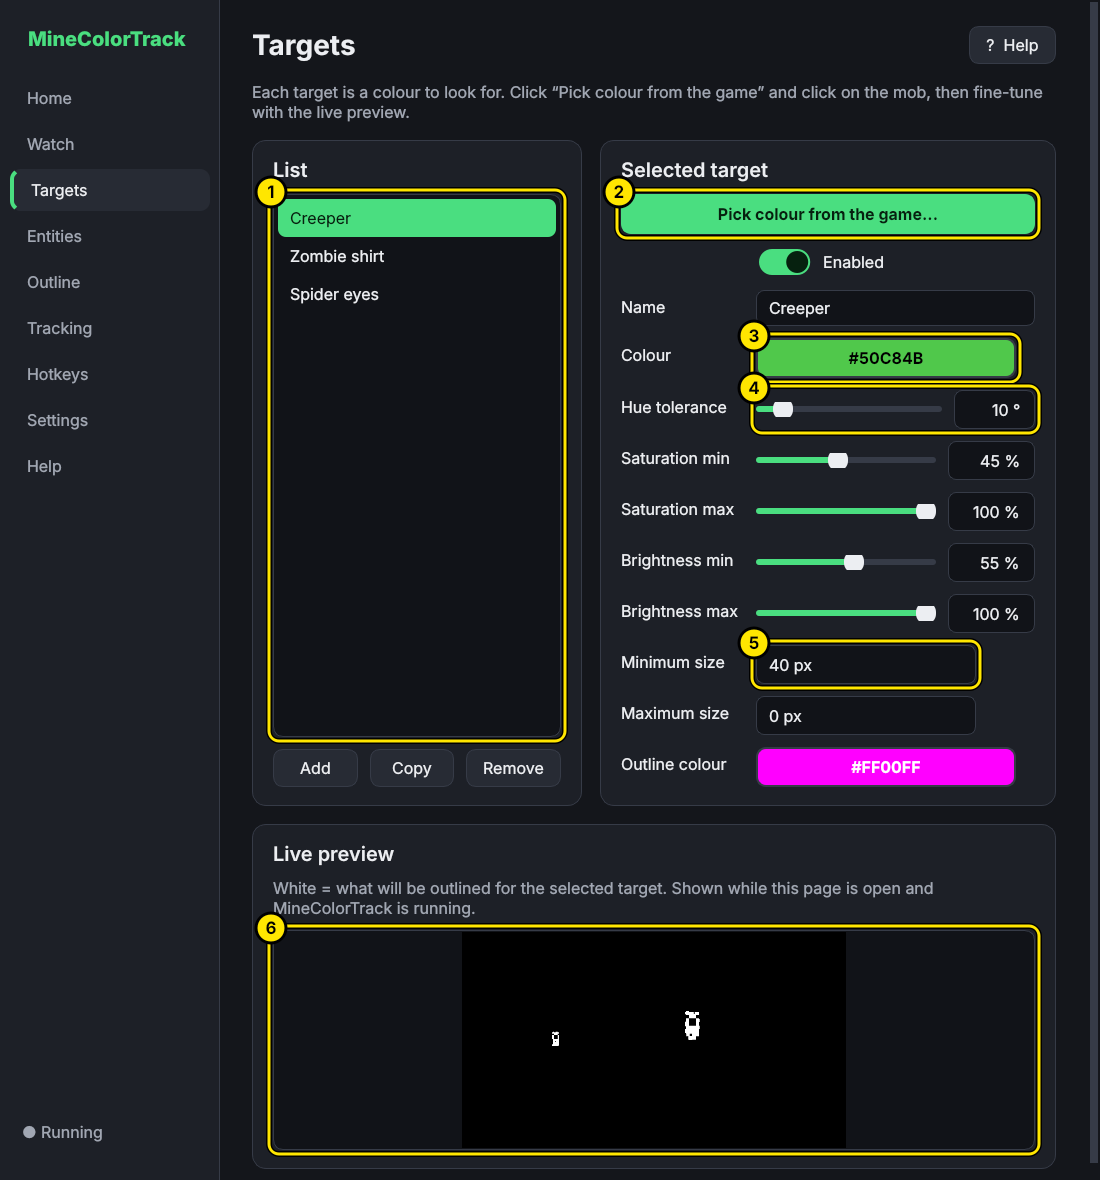
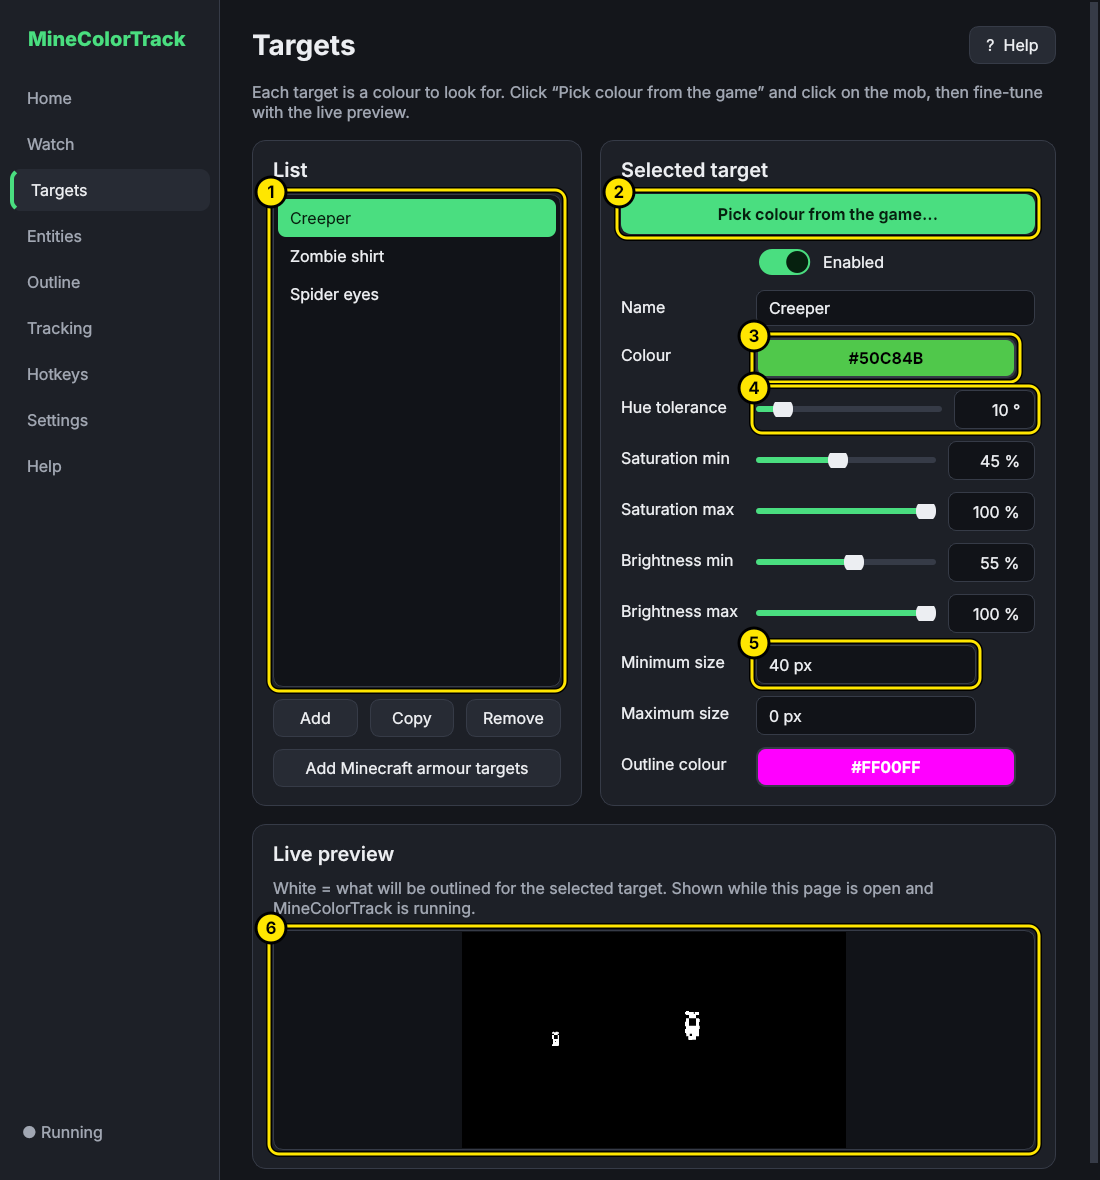
1.6.1: optional Minecraft armour targets
- Targets page button "Add Minecraft armour targets" and
  `mct target add-armour`: adds leather, chainmail, iron, gold, diamond
  and netherite armour, plain and enchanted (12 targets), to the current
  profile on request only; existing names are skipped. Approximate texture
  colours; enchanted ones get a wider range for the moving glint. Plain
  grey materials start switched off because they also match stone.
- New profiles still start empty. Help text, tooltip and tests updated.

Claude-Session: https://claude.ai/code/session_01PX75SyW8m8QKGi5PrGYV6t

Changed region(s): [[0.2164, 0.5797, 0.5255, 0.6712]]

diff --git a/colorassist/config.py b/colorassist/config.py
@@ -155,6 +155,41 @@ def default_profiles():
     return {STARTER_PROFILE: Profile()}
 
 
+def minecraft_armour_targets():
+    """Optional Minecraft armour colours (added only when asked: Targets > Add Minecraft armour targets).
+
+    Approximate colours of the default textures; lighting, texture packs and the stream change them, so re-pick
+    them in your own game when they miss. Enchanted armour has a moving purple shimmer on top, so its range is
+    wider. Plain chainmail, iron and netherite are grey and also match stone, gravel and similar blocks, so they
+    start switched off.
+    """
+    def t(name, color, outline, hue_tol, sat_min, val_min, enabled=True, min_area=30):
+        return Target(name=name, enabled=enabled, color=color, hue_tol=hue_tol, sat_min=sat_min, val_min=val_min,
+                      min_area=min_area, outline_color=outline)
+    return [
+        t("Leather armour", "#A06540", "#FF8A00", 12, 40, 35),
+        t("Leather armour (enchanted)", "#935678", "#FF8A00", 24, 25, 30),
+        t("Chainmail armour", "#A3A3A3", "#FFFFFF", 90, 0, 55, enabled=False),
+        t("Chainmail armour (enchanted)", "#957BB3", "#FFFFFF", 24, 20, 45),
+        t("Iron armour", "#D8D8D8", "#E0E0E0", 90, 0, 75, enabled=False),
+        t("Iron armour (enchanted)", "#B59BD4", "#E0E0E0", 24, 18, 60),
+        t("Gold armour", "#FCDB4A", "#FFE600", 14, 50, 60),
+        t("Gold armour (enchanted)", "#CB9D7E", "#FFE600", 24, 25, 50),
+        t("Diamond armour", "#33EBCB", "#00E5FF", 12, 45, 55),
+        t("Diamond armour (enchanted)", "#52A7CB", "#00E5FF", 24, 30, 45),
+        t("Netherite armour", "#4D494D", "#FF3DFF", 90, 0, 15, enabled=False),
+        t("Netherite armour (enchanted)", "#614580", "#FF3DFF", 24, 25, 25),
+    ]
+
+
+def add_armour_targets(profile):
+    """Add the armour targets that the profile does not have yet (matched by name). Returns the added ones."""
+    have = {x.name.lower() for x in profile.targets}
+    added = [x for x in minecraft_armour_targets() if x.name.lower() not in have]
+    profile.targets.extend(added)
+    return added
+
+
 def default_config():
     cfg = AppConfig(profiles=default_profiles())
     cfg.active_profile = STARTER_PROFILE

diff --git a/colorassist/cli.py b/colorassist/cli.py
@@ -39,6 +39,7 @@ Colour targets (in the active profile, or --profile NAME)
   mct target set NAME KEY VALUE      KEY: enabled color hue_tol sat_min sat_max val_min val_max min_area
                                      max_area outline_color name
   mct target remove NAME
+  mct target add-armour              add Minecraft armour colours (plain and enchanted) to the profile
 AI model and entities
   mct model load FILE.onnx | mct model clear | mct model info
   mct entity list | mct entity set NAME enabled|outline_color VALUE
@@ -276,6 +277,12 @@ def cmd_target(b, a):
     act = a.action
     if act == "list":
         return {"profile": a.profile or cfg.active_profile, "targets": [asdict(t) for t in prof.targets]}
+    if act == "add-armour":
+        added = config.add_armour_targets(prof)
+        b.save(cfg)
+        return {"added": [t.name for t in added], "switched_off": [t.name for t in added if not t.enabled],
+                "note": "Approximate colours; re-pick with `mct target pick` if armour is missed.",
+                "applied_live": b.live}
     if act == "add":
         if any(t.name.lower() == a.name.lower() for t in prof.targets):
             raise CliError("Target %r already exists; use `mct target set`." % a.name)
@@ -566,7 +573,7 @@ def build_parser():
     p.add_argument("new", nargs="?")
 
     p = sub.add_parser("target", help="colour targets")
-    p.add_argument("action", choices=["list", "add", "set", "remove", "pick"])
+    p.add_argument("action", choices=["list", "add", "set", "remove", "pick", "add-armour"])
     p.add_argument("name", nargs="?")
     p.add_argument("rest", nargs="*", help="set: KEY VALUE   pick: IMAGE X Y")
     p.add_argument("--profile")
@@ -632,7 +639,7 @@ def main(argv=None):
                 a.image, a.x, a.y = rest[0], int(rest[1]), int(rest[2])
             except ValueError:
                 pass
-        if a.action != "list" and not a.name:
+        if a.action not in ("list", "add-armour") and not a.name:
             ap.error("target %s needs a NAME" % a.action)
     try:
         b = Backend(a.config, offline=a.offline)

diff --git a/colorassist/help_text.py b/colorassist/help_text.py
@@ -55,6 +55,10 @@ TIPS = {
     "target_list": ("", "Targets in this profile. Select one to edit it."),
     "target_add": ("", "Add a new target to this profile and pick its colour from the game straight away.\n"
                      "It switches on once its colour is picked."),
+    "target_add_armour": ("", "Adds Minecraft armour colours to this profile: leather, chainmail, iron, gold, "
+                              "diamond and netherite,\neach plain and enchanted. Approximate colours; re-pick them "
+                              "in your game if they miss.\nGrey ones (plain chainmail, iron, netherite) start switched "
+                              "off because they also match stone."),
     "target_copy": ("", "Make a copy of the selected target, for example to track the same mob at night."),
     "target_remove": ("", "Delete the selected target from this profile."),
     "pick": ("", "Freezes the current picture. Click on the thing you want outlined:\n"
@@ -242,6 +246,9 @@ are filled in.</li>
 <li><b>Colour</b>: the colour searched for. Click it to choose by hand.</li>
 <li><b>Ranges</b>: how close a pixel must be to that colour. See “Tuning a colour” below.</li>
 <li><b>Size limits</b>: ignore matches that are too small (specks) or too big (a whole field).</li>
+<li><b>Add Minecraft armour targets</b> (under the list) adds leather, chainmail, iron, gold, diamond and netherite
+armour, each plain and enchanted, with approximate colours. Grey armour starts switched off because it also
+matches stone; enchanted armour has a wider range because of its moving purple shimmer.</li>
 <li><b>Live preview</b>: white shows what will be outlined. It works while assist is running.</li>
 </ol>
 """),

diff --git a/colorassist/panel.py b/colorassist/panel.py
@@ -509,6 +509,7 @@ class Panel(QMainWindow):
                               ("Remove", "target_remove", self._remove_target)):
             bl.addWidget(self._button(text, key, fn))
         cl.addLayout(bl)
+        cl.addWidget(self._button("Add Minecraft armour targets", "target_add_armour", self._add_armour))
         c.setMinimumWidth(330)
         row.addWidget(c, 1)
 
@@ -1085,6 +1086,24 @@ class Panel(QMainWindow):
             self.status.setText("New target added. Click on the thing to outline; it switches on once its "
                                 "colour is picked.")
             self.pickColourRequested.emit()
+
+    def _add_armour(self):
+        from .config import add_armour_targets
+        added = add_armour_targets(self.cfg.profile)
+        self._reload_targets(select=len(self.cfg.profile.targets) - 1)
+        self.settingsChanged.emit()
+        if not added:
+            QMessageBox.information(self, APP_NAME, "This profile already has all the armour targets.")
+            return
+        off = [x.name for x in added if not x.enabled]
+        QMessageBox.information(
+            self, APP_NAME,
+            "Added %d armour targets to \u201c%s\u201d.\n\n"
+            "The colours are approximate. If armour is missed or the wrong things are outlined, select the target, "
+            "press \u201cPick colour from the game\u201d and click on the armour, then check the live preview.%s"
+            % (len(added), self.cfg.active_profile,
+               ("\n\nSwitched off because grey also matches stone and similar blocks: %s. Switch them on to try them."
+                % ", ".join(off)) if off else ""))
 
     def _dup_target(self):
         t = self._current_target()

diff --git a/tests/test_cli.py b/tests/test_cli.py
@@ -138,3 +138,13 @@ def test_live_control_of_running_app(tmp_path):
     assert results["toggle"][1]["outline_enabled"] is False and cfg.profile.outline.enabled is False
     assert config.load(path).profile.outline.thickness == 9                   # and saved
     ctl.panel.close()
+
+
+def test_armour_targets(cfg_path):
+    code, res = run(cfg_path, "target", "add-armour")
+    assert code == 0 and len(res["added"]) == 12
+    assert set(res["switched_off"]) == {"Chainmail armour", "Iron armour", "Netherite armour"}
+    assert run(cfg_path, "target", "add-armour")[1]["added"] == []          # adding twice adds nothing
+    names = [t["name"] for t in run(cfg_path, "target", "list")[1]["targets"]]
+    assert "Diamond armour (enchanted)" in names and len(names) == 12
+    assert config.default_config().profile.targets == []                    # new profiles still start empty

diff --git a/colorassist/__init__.py b/colorassist/__init__.py
@@ -1,4 +1,4 @@
 """MineColorTrack: low-vision colour highlighting for game streams."""
 APP_NAME = "MineColorTrack"
-__version__ = "1.6.0"
+__version__ = "1.6.1"
 UPDATE_REPO = "EQQX0/MineColorTrack"     # GitHub repository whose releases the update check reads

diff --git a/packaging/release_notes.md b/packaging/release_notes.md
@@ -22,6 +22,13 @@ Requirements: Windows 10 (version 2004 or newer) or Windows 11, 64-bit. Nothing 
 
 Every setting has a tooltip, and the **Help** page explains everything with pictures.
 
+## What's new in 1.6.1
+
+- **Add Minecraft armour targets** (Targets page, or `mct target add-armour`): leather, chainmail, iron, gold,
+  diamond and netherite armour, each plain and enchanted, added to the current profile when you press it.
+  Colours are approximate; re-pick them in your game if they miss. Grey armour starts switched off because
+  it also matches stone. New profiles still start empty.
+
 ## What's new in 1.6.0
 
 - **Update check**: MineColorTrack looks for a newer release when it opens and shows **Update now** on the Home
